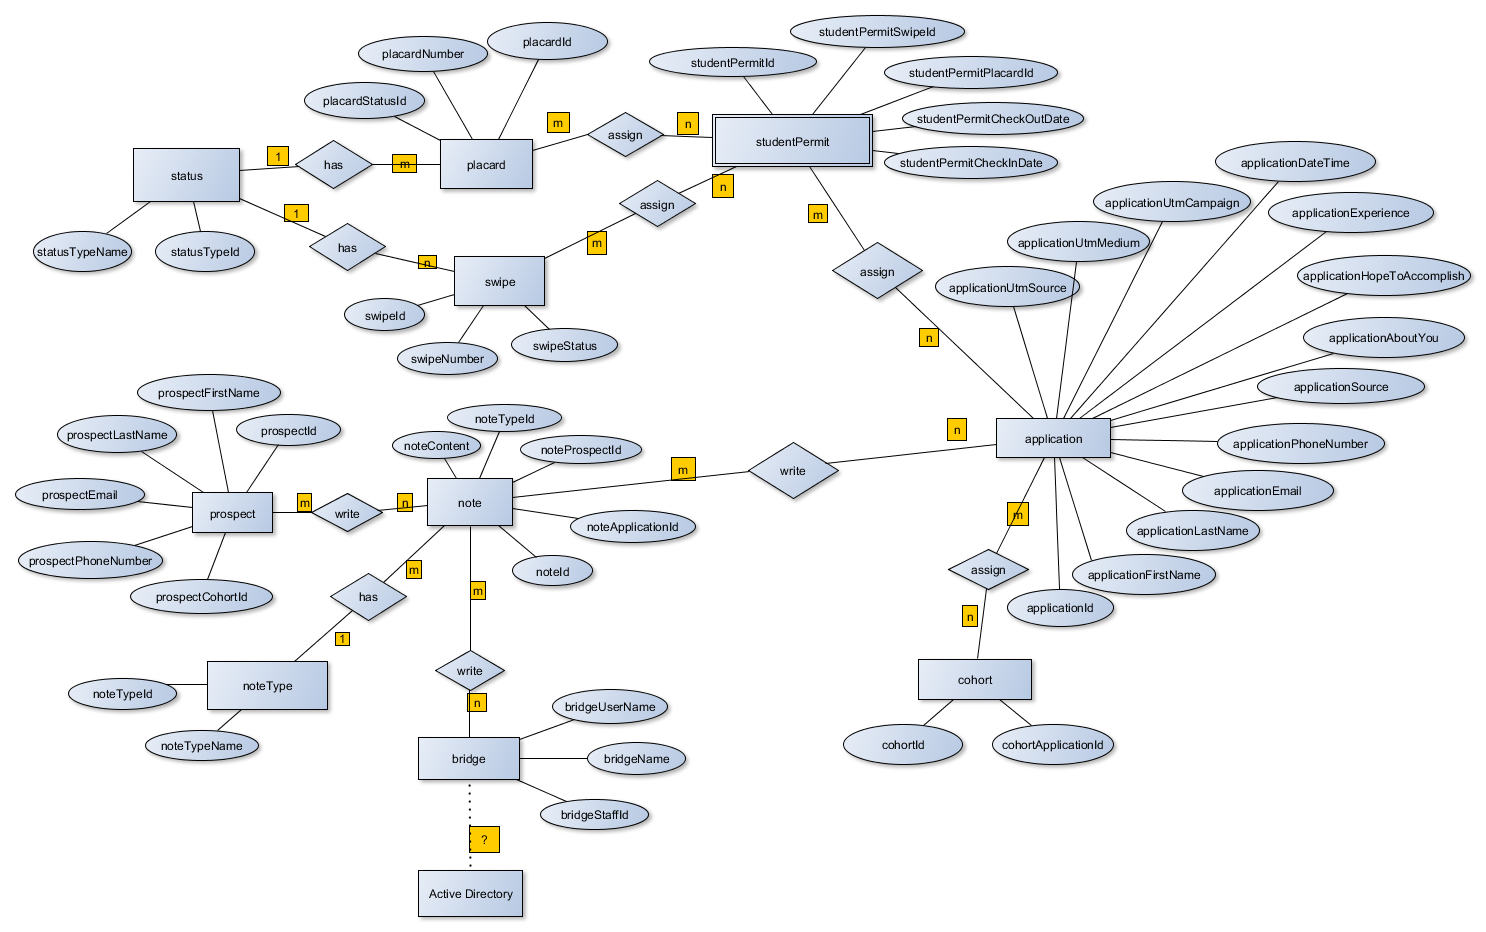
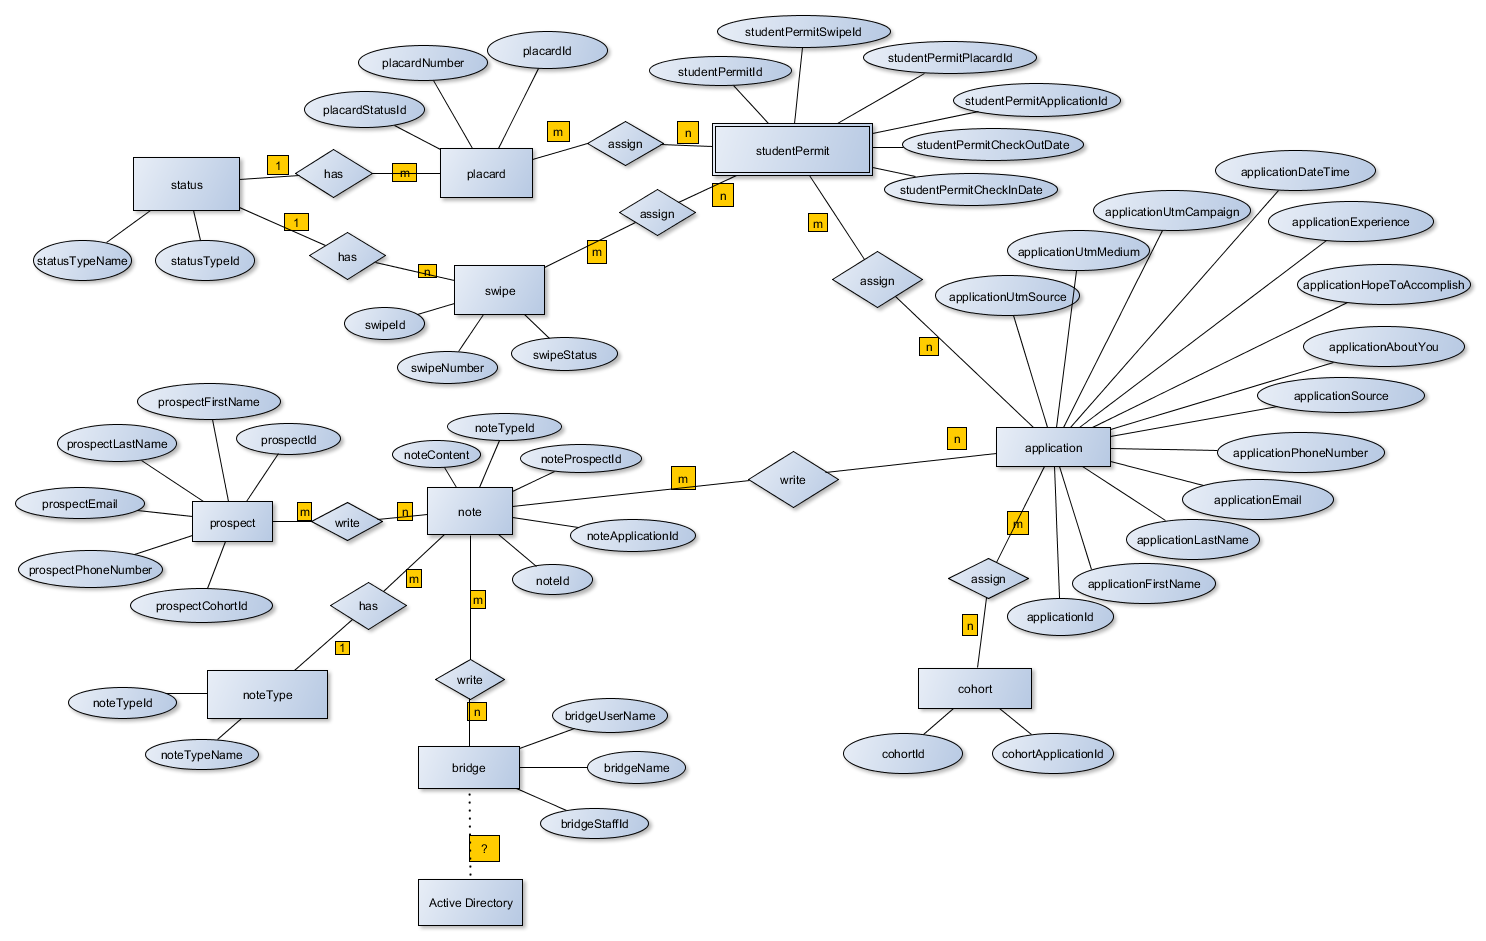
updated docblock for swipe

diff --git a/public_html/php/classes/StudentPermit.php b/public_html/php/classes/StudentPermit.php
@@ -31,15 +31,15 @@ class StudentPermit implements \JsonSerializable {
 
 	/**
 	 * StudentPermit constructor.
-	 * @param int|null $newStudentPermitStudentId
-	 * @param int $newStudentPermitPlacardId
-	 * @param int $newStudentPermitSwipeId
-	 * @param \DateTime $newStudentPermitCheckOutDate
-	 * @param \DateTime $newStudentPermitCheckInDate
-	 * @throws \InvalidArgumentException
-	 * @throws \RangeException
-	 * @throws \TypeError
-	 * @throws \Exception
+	 * @param int|null $newStudentPermitStudentId for new value for new student permit student id
+	 * @param int $newStudentPermitPlacardId for nre value for student permit placard id
+	 * @param int $newStudentPermitSwipeId for new value for student permit swipe id
+	 * @param \DateTime $newStudentPermitCheckOutDate as a DateTime object null to load the current time
+	 * @param \DateTime $newStudentPermitCheckInDate as a Datetime object null to load the current time
+	 * @throws \InvalidArgumentException if the new student permit is not valid
+	 * @throws \RangeException if new permit id is out of range
+	 * @throws \TypeError if student id is not valid
+	 * @throws \Exception if the student permit student id is out of range
 	 */
 	public function __construct(int $newStudentPermitStudentId = null, int $newStudentPermitPlacardId, int $newStudentPermitSwipeId, \DateTime $newStudentPermitCheckOutDate, \DateTime $newStudentPermitCheckInDate){
 		try{
@@ -95,8 +95,8 @@ class StudentPermit implements \JsonSerializable {
 	}
 
 	/**
-	 * @param int $newStudentPermitStudentId
-	 * @throws \RangeException
+	 * @param int $newStudentPermitStudentId new value of student permit student id
+	 * @throws \RangeException if new value of student permit student id
 	 */
 	public function setStudentPermitStudentId(int $newStudentPermitStudentId){
 		if ($newStudentPermitStudentId <= 0) {
@@ -106,8 +106,8 @@ class StudentPermit implements \JsonSerializable {
 	}
 
 	/**
-	 * @param int $newStudentPermitPlacardId
-	 * @throws \RangeException
+	 * @param int $newStudentPermitPlacardId new value for student permit placard id
+	 * @throws \RangeException new value of student permit placard id
 	 */
 	public function setStudentPermitPlacardId(int $newStudentPermitPlacardId){
 		if ($newStudentPermitPlacardId <= 0) {
@@ -117,8 +117,8 @@ class StudentPermit implements \JsonSerializable {
 	}
 
 	/**
-	 * @param int $newStudentPermitSwipeId
-	 * @throws \RangeException
+	 * @param int $newStudentPermitSwipeId new value for student permit swipe id
+	 * @throws \RangeException new value of student permit swipe id is out of range
 	 */
 	public function setStudentPermitSwipeId(int $newStudentPermitSwipeId){
 		if ($newStudentPermitSwipeId <= 0) {
@@ -128,9 +128,9 @@ class StudentPermit implements \JsonSerializable {
 	}
 
 	/**
-	 * @param \DateTime $newStudentPermitCheckOutDate
-	 * @throws \InvalidArgumentException
-	 * @throws \RangeException
+	 * @param \DateTime $newStudentPermitCheckOutDate as a DateTime object null to load the current time
+	 * @throws \InvalidArgumentException is not a valid student permit or valid date
+	 * @throws \RangeException is a date that does not exist
 	 */
 	public function setStudentPermitCheckOutDate(\DateTime $newStudentPermitCheckOutDate){
 		try {
@@ -145,9 +145,9 @@ class StudentPermit implements \JsonSerializable {
 	}
 
 	/**
-	 * @param \DateTime $newStudentPermitCheckInDate
-	 * @throws \InvalidArgumentException
-	 * @throws \RangeException
+	 * @param \DateTime $newStudentPermitCheckInDate object null to load the current time
+	 * @throws \InvalidArgumentException if student permit is not valid
+	 * @throws \RangeException is a date that does not exist
 	 */
 	public function setStudentPermitCheckInDate(\DateTime $newStudentPermitCheckInDate){
 		try {
@@ -161,8 +161,8 @@ class StudentPermit implements \JsonSerializable {
 	}
 
 	/**
-	 * @param \PDO $pdo
-	 * @throws \PDOException
+	 * @param \PDO $pdo connection object
+	 * @throws \PDOException when mySQL related error occur
 	 */
 	public function insert(\PDO $pdo) {
 		// enforce the placardId is null (i.e., don't insert a studentPermit that already exists)
@@ -173,7 +173,7 @@ class StudentPermit implements \JsonSerializable {
 		//$studentPermitStudentId $studentPermitPlacardId $studentPermitSwipeId $studentPermitCheckOutDate $studentPermitCheckInDate
 		
 		// create query template
-		$query = "INSERT INTO studentpermit(studentPermitStudentId, studentPermitPlacardId, studentPermitSwipeId, studentPermitCheckOutDate, studentPermitCheckInDate) VALUES(:studentPermitStudentId, :studentPermitPlacardId, :studentPermitSwipeId, :studentPermitCheckOutDate, :studentPermitCheckInDate)";
+		$query = "INSERT INTO studentPermit(studentPermitApplicationtId, studentPermitPlacardId, studentPermitSwipeId, studentPermitCheckOutDate, studentPermitCheckInDate) VALUES(:studentPermitStudentId, :studentPermitPlacardId, :studentPermitSwipeId, :studentPermitCheckOutDate, :studentPermitCheckInDate)";
 		$statement = $pdo->prepare($query);
 
 		// bind the member variables to the place holders in the template
@@ -191,8 +191,8 @@ class StudentPermit implements \JsonSerializable {
 	}
 
 	/**
-	 * @param \PDO $pdo
-	 * @throws \PDOException
+	 * @param \PDO $pdo connection object
+	 * @throws \PDOException if unable to update a student permit that does not exist
 	 */
 	public function update(\PDO $pdo) {
 		// enforce the studentPermitStudentId is not null (i.e., don't update a studentPermit that hasn't been inserted)
@@ -217,10 +217,10 @@ class StudentPermit implements \JsonSerializable {
 	}
 
 	/**
-	 * @param \PDO $pdo
-	 * @return \SplFixedArray
-	 * @throws \PDOException when mySQL related errors occur
-	 * @throws \TypeError when variables are not the correct data type
+	 * @param \PDO $pdo connection object
+	 * @return \SplFixedArray SplFixedArray of student permit
+	 * @throws \PDOException if unable to update student permits
+	 * @throws \TypeError when student permit is not valid
 	 */
 	public static function getAllStudentPermits(\PDO $pdo){
 		// create query template
